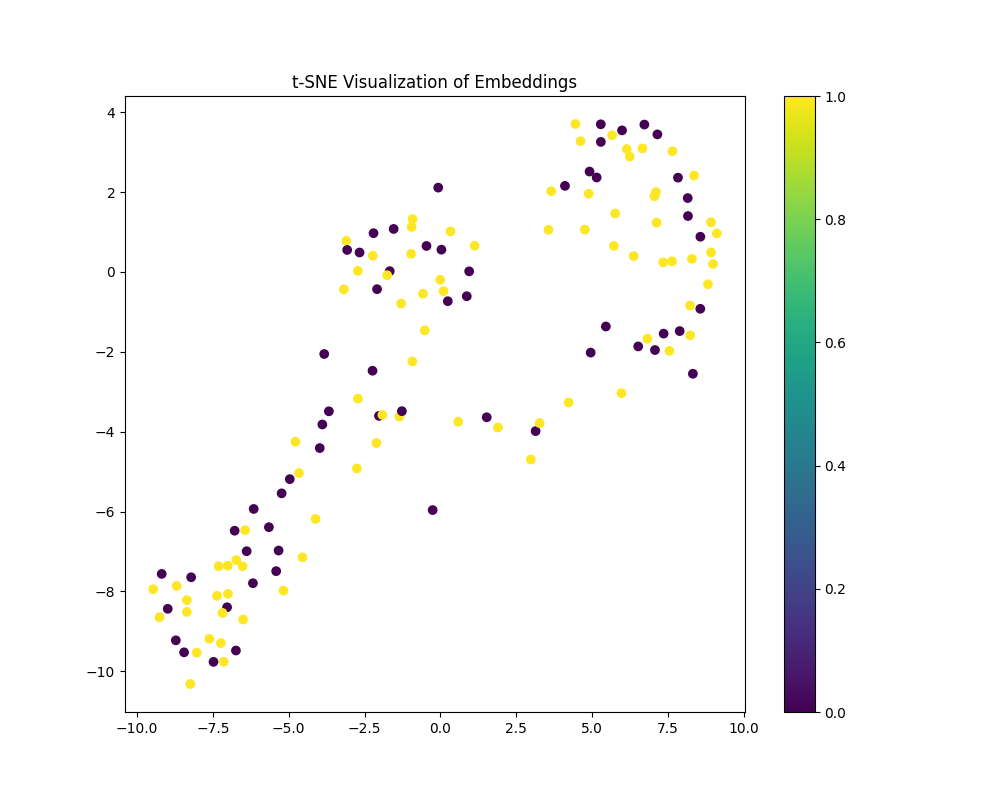
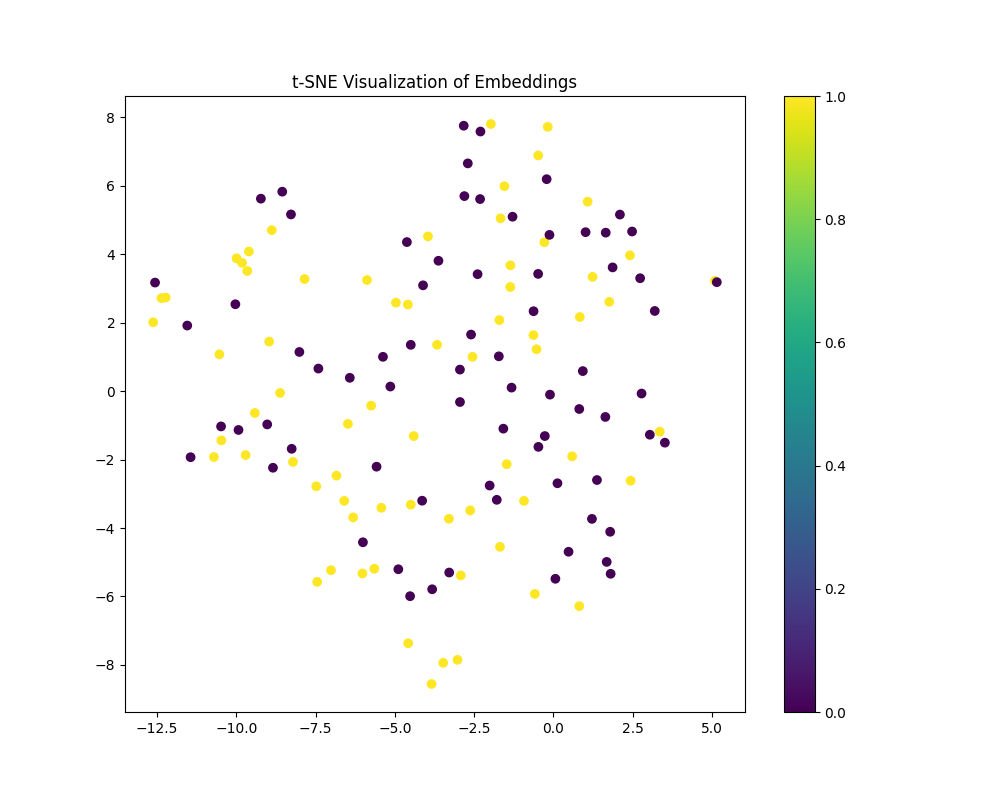
Attempted to classify trial type as opposed to press, (mu: 0.5286, std: 0.0226)

diff --git a/src/models/ContrastiveLearning.py b/src/models/ContrastiveLearning.py
@@ -86,7 +86,7 @@ class ContrastiveModel(nn.Module):
         return projections, features
     
 # Contrastive loss function
-def contrastive_loss(z1, z2, y, device, temperature=0.7, hard_negative_weight=0.5):
+def contrastive_loss(z1, z2, y, device, temperature=0.7, hard_negative_weight=0.2):
     """NT-Xent loss"""
     batch_size = z1.shape[0]
     z = torch.cat([z1, z2], dim=0) # Concat positive pairs
@@ -111,6 +111,22 @@ def contrastive_loss(z1, z2, y, device, temperature=0.7, hard_negative_weight=0.
 
     return loss
 
+def contrastive_loss_old(z1, z2, y, device, temperature=0.7):
+    """Old Contrastive loss functionw without hard negatives"""
+    batch_size = z1.shape[0]
+    z = torch.cat([z1, z2], dim=0) # Concat positive pairs
+ 
+    # Similararity matrix
+    sim_matrix = F.cosine_similarity(z.unsqueeze(1), z.unsqueeze(0), dim=2)
+ 
+    # Labels (Positives on diagonal
+    labels = torch.arange(batch_size).to(device)
+    labels = torch.cat([labels, labels], dim=0) # Duplicate for both augmented views
+ 
+    # Apply contrastive loss
+    loss = F.cross_entropy(sim_matrix / temperature, labels)
+    return loss
+
 def train_encoder(model, dataloader, optimizer, device, num_epochs=10, print_bool=True):
     import matplotlib.pyplot as plt # Temporary for visualization
     model.train()
@@ -128,7 +144,7 @@ def train_encoder(model, dataloader, optimizer, device, num_epochs=10, print_boo
             z2, _ = model(x2)
 
             # Contrastive loss
-            loss = contrastive_loss(z1, z2, y, device)
+            loss = contrastive_loss_old(z1, z2, y, device)
             
             # Backprop
             optimizer.zero_grad()
@@ -231,7 +247,7 @@ class ContrastiveDataset(Dataset):
         self.augment = augment
         self.indices = indices
 
-        self.labels = torch.tensor(self.data.iloc[indices][self.data.columns[4]].values, dtype=torch.float32)
+        self.labels = torch.tensor(self.data.iloc[indices][self.data.columns[3]].values, dtype=torch.float32)
 
         self.features = torch.tensor(self.data.iloc[indices, 5:].values, dtype=torch.float32)
 

diff --git a/src/main.py b/src/main.py
@@ -54,8 +54,8 @@ def main():
 
 
     train_encoder(encoder, train_dataloader_encoder, optimizer, device, num_epochs=200, print_bool=True)
-    # evaluate_encoder(encoder, test_dataloader, device)
-    # return # Breakpoint for t-SNE visualization
+    evaluate_encoder(encoder, test_dataloader, device)
+    return # Breakpoint for t-SNE visualization
 
     model = TestClassifier(encoder, 128, 1)
     model = model.to(device)
@@ -69,7 +69,7 @@ def main():
     return accuracy
 
 if __name__ == "__main__":
-    visualize_flag = True
+    visualize_flag = False
     if not visualize_flag:
         main()
 
